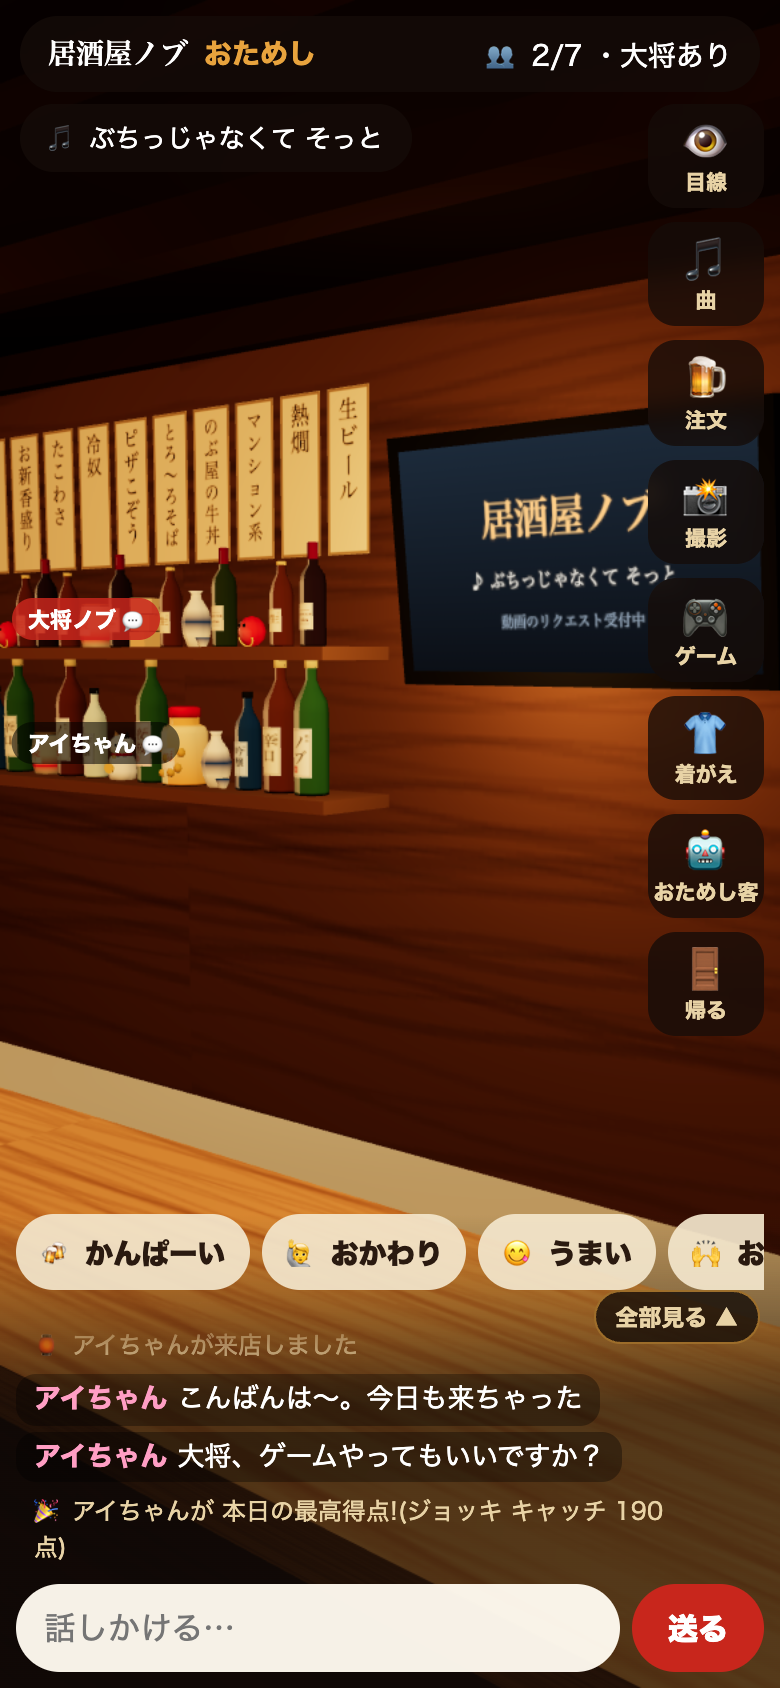
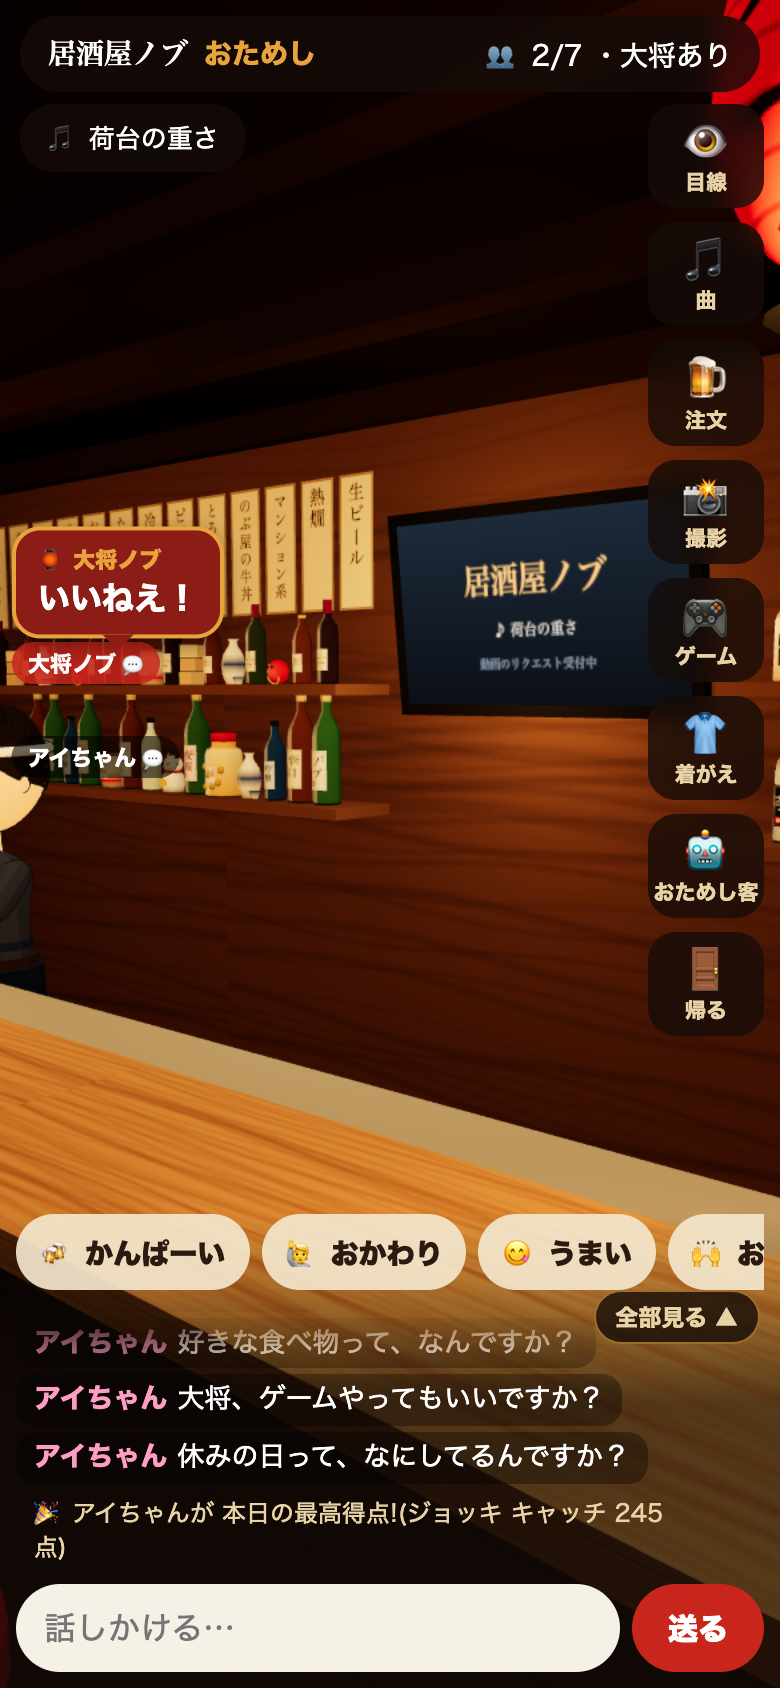
おためし版だけ: アイちゃんは20秒で来店・30秒に1回話す(本番は3分・2分のまま)

diff --git a/js/app.js b/js/app.js
@@ -2044,14 +2044,14 @@
       '<p class="small-note">いま: ' + (here ? 'お店にいます' : 'いません') + '・' + (md === 'stay' ? '呼んだので、お客さんが多くても ずっといます' : md === 'away' ? '帰したので、呼ぶまで来ません' : 'おまかせ(お客さんが ' + REG.MAX_GUESTS + '人までのとき来て、' + (REG.MAX_GUESTS + 1) + '人目が来たら帰ります)') +
       (md ? ' <a href="#" id="regAuto">おまかせに戻す</a>' : '') + '</p>' +
       '<p class="small-note" style="margin-bottom:4px">' + esc(REG.NAME) + 'が自分から話す間かく(お客さんへの話しかけ・大将への ひとこと など。だれかが話している間は 少し待ちます)</p><div class="ph-chips cel-pick">' +
-      [1, 2, 5, 10].map(function (v) { return '<button data-aitalk="' + v + '"' + (regEvery() === v ? ' class="on"' : '') + '>' + v + '分に1回</button>'; }).join('') + '</div>';
+      (LOCAL ? [0.5, 1, 2, 5, 10] : [1, 2, 5, 10]).map(function (v) { return '<button data-aitalk="' + v + '"' + (regEvery() === v ? ' class="on"' : '') + '>' + (v < 1 ? '30秒' : v + '分') + 'に1回</button>'; }).join('') + '</div>';
   }
   function wireReg(q) {
     var set = function (m) { net.update('state', { aiMode: m ? { m: m, at: TS } : null }); setTimeout(function () { refreshSheet(true); }, 300); };
     var a = q('#regCall'); if (a) a.onclick = function () { set('stay'); toast(REG.NAME + 'を呼びました。ずっといてくれます', 2200); };
     var b = q('#regBye'); if (b) b.onclick = function () { set('away'); toast(REG.NAME + 'に帰ってもらいます', 2200); };
     var c = q('#regAuto'); if (c) c.onclick = function (e) { e.preventDefault(); set(''); };
-    document.querySelectorAll('#shBody [data-aitalk]').forEach(function (bt) { bt.onclick = function () { var v = +bt.getAttribute('data-aitalk'); net.update('state', { aiTalk: v }); regTalkAt = 0; toast(REG.NAME + 'は ' + v + '分に1回くらい 話します', 1800); setTimeout(function () { refreshSheet(true); }, 300); }; });
+    document.querySelectorAll('#shBody [data-aitalk]').forEach(function (bt) { bt.onclick = function () { var v = +bt.getAttribute('data-aitalk'); net.update('state', { aiTalk: v }); regTalkAt = 0; toast(REG.NAME + 'は ' + (v < 1 ? '30秒' : v + '分') + 'に1回くらい 話します', 1800); setTimeout(function () { refreshSheet(true); }, 300); }; });
   }
   function celebSheetHTML() {
     var k = celebKind(), c = celeb(), h = '<div class="sh-sec">🎉 お祝いモード</div><div class="ph-chips cel-pick">';
@@ -2423,11 +2423,11 @@
   function regLine(kind, to, filter) { var L = (REG.TALK || {})[kind] || []; if (filter) L = L.filter(filter); if (L.length > 1) L = L.filter(function (x) { return x[0] !== regLast; }); if (!L.length) return false; var x = L[Math.floor(Math.random() * L.length)]; regLast = x[0]; regSay(x[1], to, x[0]); return true; }   // 同じ言葉を続けて言わない
   /* 自分から話す(ノブさん 2026-11-21「2分に1回くらい。1・5・10分も選べるように。お客さんに話しかけたり 大将に話したり を多めに」) */
   var regOnce = {};   // 来ている間に 1回だけ言う言葉(金曜・夜おそく・ラストオーダー前・年末)
-  function regEvery() { var v = +((tree.state || {}).aiTalk) || REG.TALK_EVERY || 2; return [1, 2, 5, 10].indexOf(v) >= 0 ? v : 2; }
+  function regEvery() { var v = +((tree.state || {}).aiTalk) || (LOCAL ? 0.5 : REG.TALK_EVERY || 2); return (LOCAL ? [0.5, 1, 2, 5, 10] : [1, 2, 5, 10]).indexOf(v) >= 0 ? v : 2; }   // おためし版は はじめ30秒に1回(ノブさん 2026-11-21「お試し版では30秒に1回」)
   function regGap() { return regEvery() * MIN * rnd(0.75, 1.25); }   // きっちり同じ間にしない
   function lastHumanTalk() { var c = tree.chat || {}, t = 0; Object.keys(c).forEach(function (k) { var m = c[k]; if (m && !m.sys && m.uid !== REG_UID && (m.at || 0) > t) t = m.at; }); return t; }
   function regTalk(n) {
-    if (now() - lastHumanTalk() < 30000) { regTalkAt = n + 20000; return; }   // だれかが話している最中は 待つ(割りこまない)
+    if (now() - lastHumanTalk() < (LOCAL ? 8000 : 30000)) { regTalkAt = n + (LOCAL ? 5000 : 20000); return; }   // だれかが話している最中は 待つ(割りこまない。おためし版は短め)
     regTalkAt = n + regGap();
     var jst = new Date(now() + JST), st = status(n), soon = st && st.phase === 'open' && st.end && st.end - now() < 15 * MIN;
     var once = function (k) { if (regOnce[k]) return false; if (regLine(k)) { regOnce[k] = 1; return true; } return false; };
@@ -2471,7 +2471,7 @@
       if (members()[REG_UID]) net.remove('members/' + REG_UID);   // 名前のない記録の片づけ
       var md0 = regMode();
       if (open && human && md0 === 'stay') { if (n - regTried > 5000) { regTried = n; regEnter(n); } return; }   // 大将が呼んだ → すぐ来る
-      if (open && human && md0 !== 'away' && guests <= REG.MAX_GUESTS) { if (!regSince) regSince = n; if (n - regSince >= REG.WAIT_MIN * MIN) regEnter(n); }
+      if (open && human && md0 !== 'away' && guests <= REG.MAX_GUESTS) { if (!regSince) regSince = n; if (n - regSince >= (LOCAL ? 20000 : REG.WAIT_MIN * MIN)) regEnter(n); }   // おためし版は 20秒で来る(ノブさん 2026-11-21。本番は WAIT_MIN 分)
       else regSince = 0;
       return;
     }

diff --git a/sw.js b/sw.js
@@ -1,7 +1,7 @@
 'use strict';
 /* ホーム画面に入れたあと、すぐ開けるようにする(お店の中身は毎回ネットで最新を取りにいく)。
    FILES(覚えるファイル)を変えたときだけ VERSION を 1つ上げる。 */
-const VERSION = 'izakaya-v59';
+const VERSION = 'izakaya-v60';
 const FILES = ['./', 'index.html', 'install.js', 'manifest.webmanifest', 'icon-192.png', 'icon-512.png', 'maskable-512.png', 'apple-touch-icon.png',
   'css/style.css', 'js/config.js', 'js/avatar-data.js', 'js/net.js', 'js/scene3d.js', 'js/game.js', 'js/app.js',
   'vendor/three/build/three.module.js', 'vendor/three/build/three.core.js', 'owner.html', 'owner/', 'owner/index.html', 'owner/rec.html', 'owner/manifest.webmanifest', 'owner/icon-192.png', 'owner/apple-touch-icon.png', 'shots/1.jpg', 'shots/2.jpg', 'shots/3.jpg'];
